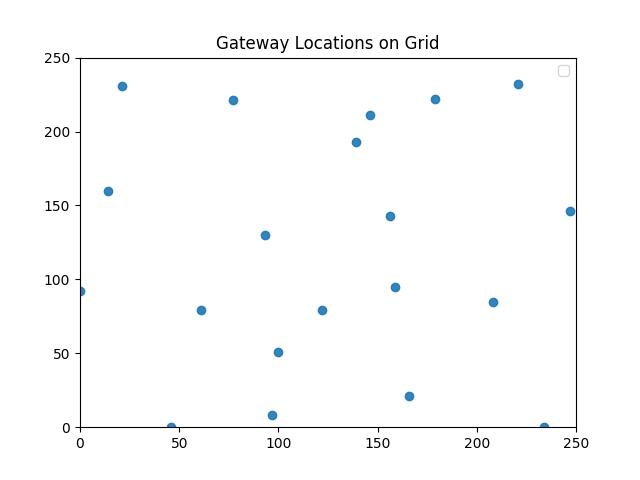
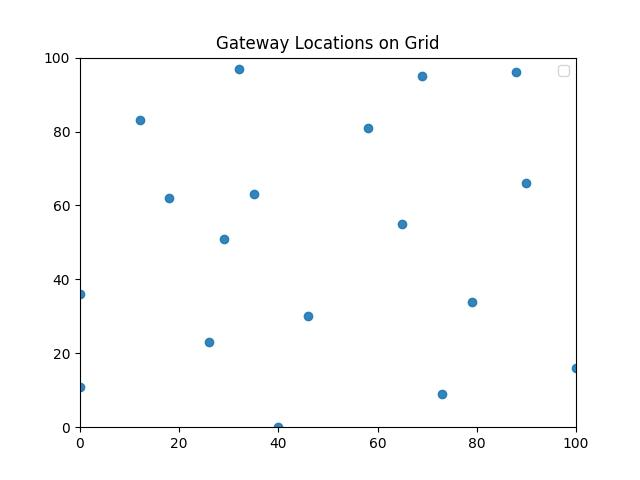
ready to go!

diff --git a/functions/clustering.py b/functions/clustering.py
@@ -3,12 +3,7 @@ import mip.model
 import mip.constants
 
 from structs import Grid, Gateway
-
-
-def calculate_distance(point1:tuple, point2:tuple) -> int:
-    x1, y1 = point1
-    x2, y2 = point2
-    return int(np.sqrt((x1-x2)**2 + (y1-y2)**2))
+import helpers
 
 
 def generate_model(grid:Grid) -> tuple:
@@ -62,7 +57,7 @@ def develop_model(model:mip.model.Model, grid:Grid, sensor_set:set, gateway_loca
 
     model.objective = mip.model.minimize(
         mip.model.xsum([
-            gateway_locations[gateway_y][gateway_x] * (0 < calculate_distance(
+            gateway_locations[gateway_y][gateway_x] * (0 < helpers.calculate_distance(
                 (sensor.get_x(), sensor.get_y()), (gateway_x, gateway_y)
             ) <= distance_threshold)
             for gateway_y in grid.get_height_as_range()
@@ -74,7 +69,7 @@ def develop_model(model:mip.model.Model, grid:Grid, sensor_set:set, gateway_loca
     for sensor in sensor_set:
         sensor_x, sensor_y = sensor.get_x(), sensor.get_y()
         model += mip.model.xsum([
-            gateway_locations[gateway_y][gateway_x] * (0 < calculate_distance(
+            gateway_locations[gateway_y][gateway_x] * (0 < helpers.calculate_distance(
                 (sensor_x, sensor_y), (gateway_x, gateway_y)
             ) <= distance_threshold)
             for gateway_x in grid.get_width_as_range()
@@ -109,7 +104,6 @@ def optimize_model(model:mip.model.Model, grid:Grid, gateway_locations:list) -> 
                         id=str(gateway_x)+str(gateway_y),
                         x=gateway_x,
                         y=gateway_y)
-                    gateway_set.add(new_gateway)
-                    
+                    gateway_set.add(new_gateway)        
     
     return gateway_set

diff --git a/functions/helpers.py b/functions/helpers.py
@@ -1,8 +1,21 @@
 import numpy as np
 import matplotlib.pyplot as plt
-from .clustering import calculate_distance
 
 from structs import Grid, Sensor
+
+
+def calculate_distance(point1:tuple, point2:tuple) -> int:
+    x1, y1 = point1
+    x2, y2 = point2
+    return int(np.sqrt((x1-x2)**2 + (y1-y2)**2))
+
+
+def generate_circle(center:tuple, radius:int) -> tuple:
+    center_x, center_y = center
+    theta = np.linspace(0 , 2*np.pi, 150)
+    x_data = radius * (np.cos(theta) - center_x)
+    y_data = radius * (np.sin(theta) - center_y)
+    return x_data, y_data
 
 
 def generate_sensors(size:int, sensor_count:int) -> set:
@@ -92,6 +105,10 @@ def show_grid(grid:Grid, sensor_set:set, gateway_set:list, distance_threshold:in
     for gateway in gateway_set:
         gateway_x_data.append(gateway.get_x())
         gateway_y_data.append(gateway.get_y())
+        circle_x, circle_y = generate_circle(
+            center=(gateway.get_x(), gateway_y_data()),
+            radius=distance_threshold)
+        plt.plot(circle_x, circle_y, color='grey')
 
     sensor_x_data, sensor_y_data = list(), list()
     for sensor in sensor_set:

diff --git a/main.py b/main.py
@@ -5,9 +5,9 @@ from functions import helpers
 from functions import clustering
 
 parser = argparse.ArgumentParser(description='ILP Sensor Clustering - Clustering of sensors using Integer Linear Programming concept')
-parser.add_argument('--size', required=False, default=250, type=int)
+parser.add_argument('--size', required=False, default=100, type=int)
 parser.add_argument('--sensor_count', required=False, default=75, type=int)
-parser.add_argument('--distance_threshold', required=False, default=35, type=float)
+parser.add_argument('--distance_threshold', required=False, default=15, type=float)
 
 args = vars(parser.parse_args())
 GRID_SIZE = args['size']

diff --git a/structs/node.py b/structs/node.py
@@ -12,3 +12,21 @@ class Node:
 
     def get_y(self) -> int:
         return self.__y
+
+
+class Gateway(Node):
+    def __init__(self, id: str, x: int, y: int) -> None:
+        super().__init__(id, x, y)
+
+    def __str__(self) -> str:
+        return "[Sensor#{}; x={}, y{}]".format(
+            self.__id, self.__x, self.__y)
+
+
+class Sensor(Node):
+    def __init__(self, id: str, x: int, y: int) -> None:
+        super().__init__(id, x, y)
+
+    def __str__(self) -> str:
+        return "[Sensor#{}; x={}, y{}]".format(
+            self.__id, self.__x, self.__y)

diff --git a/structs/__init__.py b/structs/__init__.py
@@ -1,4 +1,2 @@
-from .gateway import Gateway
 from .grid import Grid
-from .node import Node
-from .sensor import Sensor
+from .node import Gateway, Sensor
